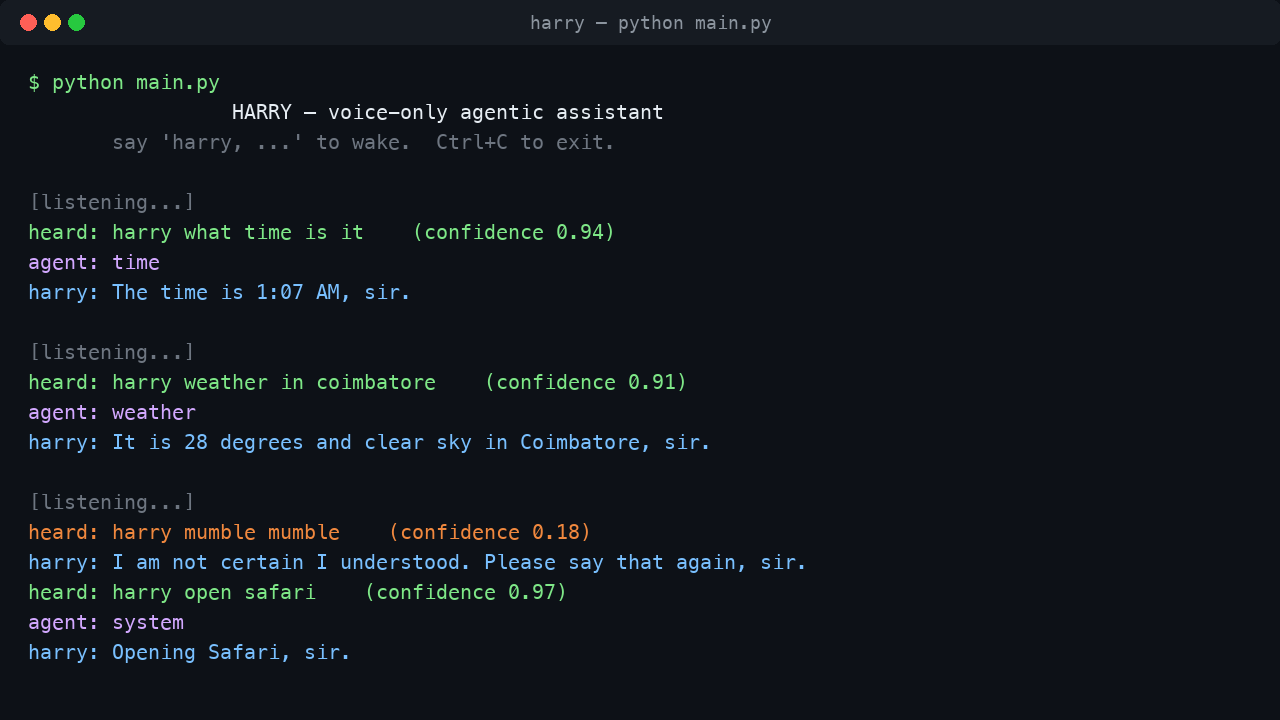
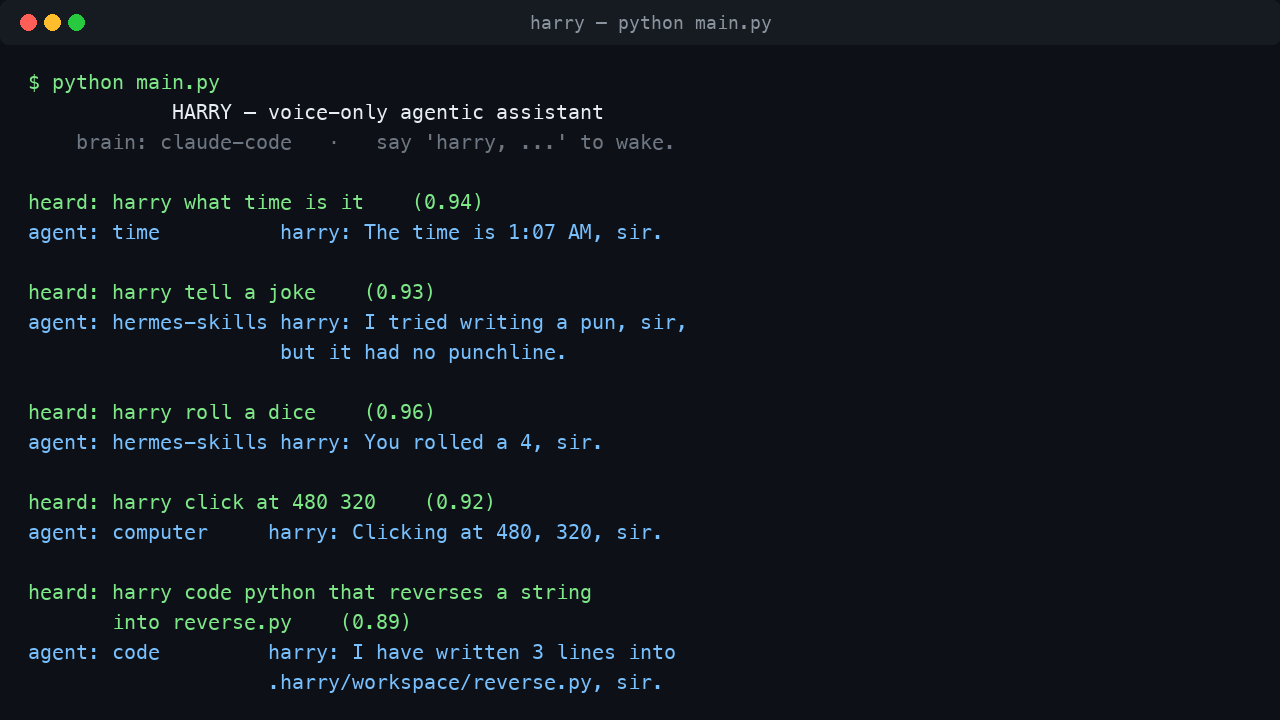
docs: refresh README and screenshots for pluggable brain + 98 skills

diff --git a/docs/generate_screenshots.py b/docs/generate_screenshots.py
@@ -72,25 +72,29 @@ def make_architecture() -> None:
     box(60, 380, 240, 90, "Wake & Clarify", "wake word + re-ask loop", "#22d3ee")
 
     box(420, 260, 320, 110, "Orchestrator", "Hermes-style router", "#f59e0b")
-    box(420, 410, 320, 90, "Brain  (Claude)", "anthropic SDK + prompt cache", "#a855f7")
+    box(420, 410, 320, 90, "Brain  (pluggable)", "Claude Pro · OpenRouter · OpenAI-compat", "#a855f7")
 
-    box(820, 140, 220, 80, "Time Agent", "clock / date / day", "#34d399")
-    box(820, 240, 220, 80, "Weather Agent", "OpenWeather API", "#34d399")
-    box(820, 340, 220, 80, "System Agent", "open mac apps (safe-list)", "#34d399")
-    box(820, 440, 220, 80, "Conversation", "free-form via Brain", "#34d399")
+    box(820, 90, 220, 70, "Time Agent", "clock / date / day", "#34d399")
+    box(820, 170, 220, 70, "Weather Agent", "OpenWeather API", "#34d399")
+    box(820, 250, 220, 70, "System Agent", "open mac apps", "#34d399")
+    box(820, 330, 220, 70, "Computer Agent", "click / type / scroll (CUA)", "#34d399")
+    box(820, 410, 220, 70, "Code Agent", "writes code to sandbox", "#34d399")
+    box(820, 490, 220, 70, "Hermes Skills × 98", "unique-keyword catalogue", "#34d399")
 
     box(420, 560, 320, 100, "Speaker", "TTS  →  audible reply", "#f472b6")
 
     arrow(180, 230, 180, 260)
     arrow(180, 350, 180, 380)
     arrow(300, 425, 420, 315)
-    arrow(740, 315, 820, 180)
-    arrow(740, 315, 820, 280)
-    arrow(740, 315, 820, 380)
-    arrow(740, 315, 820, 480)
+    arrow(740, 315, 820, 125)
+    arrow(740, 315, 820, 205)
+    arrow(740, 315, 820, 285)
+    arrow(740, 315, 820, 365)
+    arrow(740, 315, 820, 445)
+    arrow(740, 315, 820, 525)
     arrow(580, 370, 580, 410)
     arrow(580, 500, 580, 560)
-    arrow(820, 480, 740, 605, color="#64748b")
+    arrow(820, 525, 740, 605, color="#64748b")
 
     d.text((40, 680), "user voice  →  listener  →  orchestrator  →  agent  →  speaker  →  user",
            fill="#64748b", font=_font(16))
@@ -112,25 +116,29 @@ def make_terminal_demo() -> None:
 
     lines = [
         ("$ python main.py", "#7ee787"),
-        ("                 HARRY — voice-only agentic assistant", "#e6edf3"),
-        ("       say 'harry, ...' to wake.  Ctrl+C to exit.", "#6e7681"),
+        ("            HARRY — voice-only agentic assistant", "#e6edf3"),
+        ("    brain: claude-code   ·   say 'harry, ...' to wake.", "#6e7681"),
         ("", "#e6edf3"),
-        ("[listening...]", "#6e7681"),
-        ("heard: harry what time is it    (confidence 0.94)", "#7ee787"),
-        ("agent: time", "#d2a8ff"),
-        ("harry: The time is 1:07 AM, sir.", "#79c0ff"),
+        ("heard: harry what time is it    (0.94)", "#7ee787"),
+        ("agent: time          harry: The time is 1:07 AM, sir.", "#79c0ff"),
         ("", "#e6edf3"),
-        ("[listening...]", "#6e7681"),
-        ("heard: harry weather in coimbatore    (confidence 0.91)", "#7ee787"),
-        ("agent: weather", "#d2a8ff"),
-        ("harry: It is 28 degrees and clear sky in Coimbatore, sir.", "#79c0ff"),
+        ("heard: harry tell a joke    (0.93)", "#7ee787"),
+        ("agent: hermes-skills harry: I tried writing a pun, sir,", "#79c0ff"),
+        ("                     but it had no punchline.", "#79c0ff"),
         ("", "#e6edf3"),
-        ("[listening...]", "#6e7681"),
-        ("heard: harry mumble mumble    (confidence 0.18)", "#f0883e"),
-        ("harry: I am not certain I understood. Please say that again, sir.", "#79c0ff"),
-        ("heard: harry open safari    (confidence 0.97)", "#7ee787"),
-        ("agent: system", "#d2a8ff"),
-        ("harry: Opening Safari, sir.", "#79c0ff"),
+        ("heard: harry roll a dice    (0.96)", "#7ee787"),
+        ("agent: hermes-skills harry: You rolled a 4, sir.", "#79c0ff"),
+        ("", "#e6edf3"),
+        ("heard: harry click at 480 320    (0.92)", "#7ee787"),
+        ("agent: computer     harry: Clicking at 480, 320, sir.", "#79c0ff"),
+        ("", "#e6edf3"),
+        ("heard: harry code python that reverses a string", "#7ee787"),
+        ("       into reverse.py    (0.89)", "#7ee787"),
+        ("agent: code         harry: I have written 3 lines into", "#79c0ff"),
+        ("                    .harry/workspace/reverse.py, sir.", "#79c0ff"),
+        ("", "#e6edf3"),
+        ("heard: harry mumble mumble    (0.18)", "#f0883e"),
+        ("harry: I am not certain I understood. Please say that again.", "#79c0ff"),
     ]
 
     y = 70

diff --git a/README.md b/README.md
@@ -4,26 +4,27 @@
 
 # Harry
 
-**A voice-only agentic AI assistant — JARVIS / FRIDAY-style, built on a Hermes-style orchestrator.**
+**Voice-only agentic AI — JARVIS / FRIDAY-style — with a Hermes-style orchestrator, 98-skill catalogue, computer-use agent, and a pluggable LLM brain.**
 
 [![Python](https://img.shields.io/badge/python-3.10%2B-blue.svg)](https://www.python.org/)
 [![License: MIT](https://img.shields.io/badge/license-MIT-green.svg)](LICENSE)
-[![Claude](https://img.shields.io/badge/brain-Claude%20Sonnet%204.6-7c3aed.svg)](https://www.anthropic.com/claude)
+[![Brain: Claude Pro · OpenRouter · OpenAI-compat](https://img.shields.io/badge/brain-pluggable-7c3aed.svg)](#brain-backends)
+[![98 skills](https://img.shields.io/badge/skills-98%20unique%20triggers-22d3ee.svg)](#the-98-skill-catalogue)
 [![Voice only](https://img.shields.io/badge/interface-voice%20only-22d3ee.svg)](#)
 
 </div>
 
 ---
 
-Harry is an experiment in building a Tony-Stark-style personal AI. **You only speak to it. It only speaks back.** No typing, no chat window, no buttons. If Harry mishears you, it asks again — politely — until it's confident enough to act.
+Harry is a Tony-Stark-style personal AI. **You only speak to it. It only speaks back.** No typing, no chat window, no buttons. If Harry mishears you, it asks again — politely — until it's confident enough to act.
 
-Under the hood, a **Hermes-style orchestrator** routes each spoken utterance to a specialist sub-agent (time, weather, system control, free-form conversation). Claude Sonnet 4.6 is the reasoning brain behind the free-form agent.
+Under the hood, a **Hermes-style orchestrator** routes each utterance to the best specialist agent: a clock, weather, mac system control, computer-use (cursor / type / scroll), a code-writing agent that drops files in your workspace, a 98-skill catalogue with strictly non-overlapping keyword triggers, and finally a free-form conversation agent that runs through whichever LLM brain you pick.
 
 ## Demo
 
 ![Terminal demo](docs/screenshots/demo.png)
 
-> *(Microphone input and TTS output happen out-of-band — the terminal is just a debug trace of what Harry heard, which agent answered, and what it said back.)*
+> *(Microphone input and TTS output happen out-of-band — the terminal is just the trace of what Harry heard, which agent answered, and what it said back.)*
 
 ## Architecture
 
@@ -36,33 +37,90 @@ flowchart LR
     Wake -- no --> Reask[Re-ask politely]
     Reask --> Listener
     Wake -- yes --> Orch[Orchestrator<br/>Hermes-style router]
-    Orch --> Time[⏰ Time Agent]
-    Orch --> Weather[🌦 Weather Agent]
-    Orch --> System[🖥 System Agent]
-    Orch --> Conv[💬 Conversation Agent]
-    Conv --> Brain[🧠 Claude Brain]
-    Time & Weather & System & Conv --> Speaker[🔊 TTS Speaker]
+    Orch --> Time[⏰ Time]
+    Orch --> Weather[🌦 Weather]
+    Orch --> System[🖥 System]
+    Orch --> Computer[🖱 Computer Use]
+    Orch --> Code[👨💻 Code Writer]
+    Orch --> Skills[🧰 Hermes Skills × 98]
+    Orch --> Conv[💬 Conversation]
+    Skills --> Brain
+    Code --> Brain
+    Conv --> Brain[🧠 Brain<br/>Claude Pro · OpenRouter · OpenAI-compat]
+    Time & Weather & System & Computer & Code & Skills & Conv --> Speaker[🔊 TTS]
     Speaker --> User[👤 User]
 ```
 
-## Why Hermes-style?
+## Brain backends
 
-The orchestrator pattern (popularised by NousResearch's *Hermes* models for tool use) keeps each capability isolated in its own agent with explicit triggers, instead of bundling everything into a single mega-prompt. The benefits:
+Harry doesn't lock you into one provider. Pick a backend by setting **`HARRY_BRAIN`** in your `.env`:
 
-- **Cheap routing** — keyword/heuristic match handles 80% of intents without an LLM round-trip.
-- **Auditable behaviour** — every reply is tagged with the agent that produced it.
-- **Pluggable** — adding a new skill is just a new `Agent` subclass and one line in `main.py`.
-- **Graceful fallback** — anything no specialist claims falls through to the conversational Claude brain.
+| Backend         | What it does                                                            | What it needs                                              |
+| --------------- | ----------------------------------------------------------------------- | ---------------------------------------------------------- |
+| `claude-code`   | Shells out to the `claude` CLI in non-interactive mode (`claude -p`). Uses your **Claude Pro / Max** plan — browser-authenticated, **no API key required**. | `claude` on PATH and `claude /login` once.                 |
+| `openrouter`    | One key, hundreds of models. Default model: **DeepSeek V3** (`deepseek/deepseek-chat-v3-0324`). | `OPENROUTER_API_KEY`, optionally `OPENROUTER_MODEL`.       |
+| `openai-compat` | Any OpenAI-compatible endpoint — **opencode**, Ollama, vLLM, DeepSeek direct, Groq, Together, LM Studio. | `OPENCODE_API_KEY` (if needed), `OPENCODE_BASE_URL`, `OPENCODE_MODEL`. |
+| `off`           | Disable the LLM entirely; only deterministic skills will work.          | nothing.                                                   |
 
-## Features
+The brain is invoked by `ConversationAgent`, `CodeAgent`, and any of the 98 skills marked `handler="llm"`. Everything else (calculator, dice, screenshot, battery, etc.) runs without a model.
 
-- 🎙 **Voice-only I/O** — `SpeechRecognition` for STT, `pyttsx3` for offline TTS
-- 🪄 **Wake word** — Harry stays quiet until it hears its name (configurable)
-- 🤔 **Confidence-aware** — if STT confidence is below threshold, Harry asks you to repeat instead of guessing
-- 🧭 **Hermes orchestrator** — keyword-routed specialist agents with an LLM fallback
-- 🧠 **Claude brain with prompt caching** — persona is cached as `ephemeral` to keep cost & latency low
-- 🛡 **Safe-list for system control** — Harry will only open apps on an explicit allowlist
-- 🇬🇧 **British-butler persona** — concise replies tuned for speech, never markdown
+## The 98-skill catalogue
+
+`harry.skills.registry` defines exactly **98 narrow skills** across 10 categories. **Every trigger phrase in the catalogue is globally unique** — there are no overlapping keywords between skills. The test suite (`tests/test_skills.py`) enforces this as a build invariant:
+
+```python
+def test_every_trigger_is_globally_unique():
+    triggers = [t for s in SKILLS for t in s.triggers]
+    dupes = [k for k, v in Counter(t.lower() for t in triggers).items() if v > 1]
+    assert not dupes
+```
+
+Categories:
+
+| Category        | Count | Examples                                                       |
+| --------------- | :---: | -------------------------------------------------------------- |
+| `info`          | 10    | calculator · dictionary · timezone-lookup · thesaurus          |
+| `creative`      | 10    | joke · story · poem · haiku · plot-twist · metaphor            |
+| `productivity`  | 10    | reminder · timer · pomodoro · todo · note · brainstorm         |
+| `comm`          |  8    | email-draft · text-draft · translate · paraphrase · proofread  |
+| `knowledge`     | 10    | eli5 · trivia · math-solve · physics · chemistry · biology     |
+| `code`          |  8    | code-snippet · debug · regex · git-help · algorithm            |
+| `system`        |  8    | close-app · volume · brightness · screenshot · lock-screen · battery |
+| `health`        |  8    | workout · recipe · meditation · breathing · sleep-tip · stretch |
+| `ent`           |  8    | movie · book · music · game · anime · podcast · tv · fun-fact  |
+| `math`          |  8    | percent · tip · age · distance · °C↔°F · kg↔lb · roman · binary |
+| `social`        | 10    | compliment · motivation · affirmation · apology · thank-you · coin · dice |
+| **Total**       | **98**|                                                                |
+
+**Routing**: the `HermesSkillAgent` sorts all triggers by length descending, then picks the longest one that appears in the utterance — so *"convert celsius to fahrenheit"* always beats a shorter trigger that might be a prefix of something else.
+
+## Tools beyond chat
+
+### 🖱 Computer Use agent
+```
+"harry, click at 480 320"
+"harry, type out hello world"
+"harry, press key return"
+"harry, scroll down by 5"
+"harry, move cursor to 100 200"
+```
+Uses [`cliclick`](https://github.com/BlueM/cliclick) for precision when installed (`brew install cliclick`), AppleScript otherwise. macOS only for now.
+
+### 👨💻 Code-writing agent
+```
+"harry, code python that reverses a string into reverse.py"
+"harry, code javascript that debounces a function into debounce.js"
+"harry, code bash that finds large files into find_big.sh"
+```
+Routes the request to the configured Brain, strips fences, and writes the result into `~/.harry/workspace/`. Refuses to write anything outside that sandbox.
+
+### 🎨 Personalisation
+```bash
+HARRY_USER_NAME=Rudhran            # who Harry is talking to
+HARRY_ADDRESS=sir                  # how Harry should address you
+HARRY_PERSONA_EXTRA="Reference Tamil engineering jokes when natural."
+```
+Pulled in by `harry/persona.py` and injected into every LLM call as the system prompt.
 
 ## Quick start
 
@@ -73,16 +131,18 @@ cd harry-ai
 python3 -m venv .venv && source .venv/bin/activate
 pip install -r requirements.txt
 
-cp .env.example .env          # then paste your ANTHROPIC_API_KEY
-
+cp .env.example .env          # pick HARRY_BRAIN and (if needed) paste a key
 python main.py
 ```
 
 Then say:
 
 > *"Harry, what time is it?"*
-> *"Harry, weather in Coimbatore."*
-> *"Harry, open Safari."*
+> *"Harry, tell a joke."*
+> *"Harry, calculate 47 times 92."*
+> *"Harry, roll a dice."*
+> *"Harry, take a screenshot."*
+> *"Harry, code python that prints fibonacci into fib.py."*
 > *"Harry, explain how isolation forests detect anomalies."*
 
 ## Project layout
@@ -92,18 +152,30 @@ harry-ai/
 ├── main.py                       # voice loop entry point
 ├── harry/
 │   ├── config.py                 # env-loaded settings
-│   ├── brain.py                  # Anthropic SDK wrapper (prompt-cached)
+│   ├── persona.py                # personalisable system prompt
+│   ├── brain/                    # pluggable LLM backends
+│   │   ├── claude_code.py        #   uses `claude` CLI → Claude Pro
+│   │   ├── openrouter.py         #   uses OpenRouter (DeepSeek, ...)
+│   │   └── openai_compat.py      #   opencode, Ollama, vLLM, ...
 │   ├── voice/
 │   │   ├── listener.py           # STT + confidence
 │   │   └── speaker.py            # TTS
-│   └── agents/
-│       ├── base.py               # Agent ABC
-│       ├── orchestrator.py       # Hermes-style router
-│       ├── time_agent.py
-│       ├── weather_agent.py
-│       ├── system_agent.py
-│       └── conversation_agent.py # Claude fallback
-├── tests/test_orchestrator.py
+│   ├── agents/
+│   │   ├── base.py               # Agent ABC
+│   │   ├── orchestrator.py       # Hermes-style router
+│   │   ├── time_agent.py
+│   │   ├── weather_agent.py
+│   │   ├── system_agent.py
+│   │   ├── computer_agent.py     # CUA — click / type / scroll
+│   │   ├── code_agent.py         # writes files to ~/.harry/workspace
+│   │   └── conversation_agent.py # free-form fallback
+│   └── skills/
+│       ├── registry.py           # 98 Skill definitions
+│       ├── handlers.py           # deterministic handlers (no LLM)
+│       └── agent.py              # HermesSkillAgent — longest-match router
+├── tests/
+│   ├── test_orchestrator.py
+│   └── test_skills.py            # catalogue invariants (unique triggers etc.)
 ├── docs/
 │   ├── generate_screenshots.py
 │   └── screenshots/{banner,architecture,demo}.png
@@ -112,17 +184,24 @@ harry-ai/
 └── LICENSE
 ```
 
-## Configuration
+## Configuration reference
 
-| Env var                | Default                 | Notes                                       |
-| ---------------------- | ----------------------- | ------------------------------------------- |
-| `ANTHROPIC_API_KEY`    | *(required)*            | from [console.anthropic.com](https://console.anthropic.com) |
-| `HARRY_MODEL`          | `claude-sonnet-4-6`     | any Anthropic chat model                    |
-| `HARRY_WAKE_WORD`      | `harry`                 | set to empty to disable wake-word gating    |
-| `HARRY_STT_ENERGY`     | `300`                   | mic energy threshold for VAD                |
-| `HARRY_STT_PAUSE`      | `0.8`                   | seconds of silence that ends an utterance   |
-| `HARRY_MAX_CLARIFY`    | `2`                     | how many times Harry will re-ask before giving up |
-| `OPENWEATHER_API_KEY`  | *(optional)*            | enables the weather agent                   |
+| Env var                | Default                          | Notes                                          |
+| ---------------------- | -------------------------------- | ---------------------------------------------- |
+| `HARRY_BRAIN`          | `claude-code`                    | `claude-code` · `openrouter` · `openai-compat` · `off` |
+| `OPENROUTER_API_KEY`   | *(empty)*                        | required for `openrouter`                      |
+| `OPENROUTER_MODEL`     | `deepseek/deepseek-chat-v3-0324` | any OpenRouter model id                        |
+| `OPENCODE_API_KEY`     | *(empty)*                        | optional for local endpoints                   |
+| `OPENCODE_BASE_URL`    | `http://localhost:11434/v1`      | Ollama-style default                           |
+| `OPENCODE_MODEL`       | `deepseek-chat`                  | model id at that endpoint                      |
+| `HARRY_USER_NAME`      | *(empty)*                        | your name, used in persona                     |
+| `HARRY_ADDRESS`        | `sir`                            | how Harry should address you                   |
+| `HARRY_PERSONA_EXTRA`  | *(empty)*                        | extra persona sentences                        |
+| `HARRY_WAKE_WORD`      | `harry`                          | set to empty to disable wake-word gating       |
+| `HARRY_STT_ENERGY`     | `300`                            | mic energy threshold for VAD                   |
+| `HARRY_STT_PAUSE`      | `0.8`                            | seconds of silence that ends an utterance      |
+| `HARRY_MAX_CLARIFY`    | `2`                              | how many times Harry will re-ask               |
+| `OPENWEATHER_API_KEY`  | *(optional)*                     | enables the weather agent                      |
 
 ## Running tests
 
@@ -130,20 +209,23 @@ harry-ai/
 python -m pytest -q
 ```
 
-The orchestrator routing tests don't touch the microphone, the speaker, or the network — they verify that the router picks the right specialist for representative utterances.
+The suite covers orchestrator routing **and** the 98-skill catalogue invariants — uniqueness of every trigger phrase, uniqueness of skill ids, that every handler is registered, and that every LLM-routed skill has a prompt.
 
 ## Roadmap
 
-- [ ] Swap `SpeechRecognition`'s Google backend for local `faster-whisper`
+- [ ] Swap Google STT for local `faster-whisper`
 - [ ] Persistent conversation memory (SQLite or vector store)
-- [ ] Native Claude tool-use API instead of keyword triggers (true Hermes-style function calling)
+- [ ] Native tool-use API on each Brain backend (true function calling)
 - [ ] Streaming TTS so Harry can start speaking before generation finishes
-- [ ] Cross-platform `SystemAgent` (Windows / Linux)
+- [ ] Cross-platform Computer Agent (Windows / Linux via `pyautogui`)
+- [ ] Hot-reload skill packs from `~/.harry/skills/*.py`
 
 ## Inspiration
 
-- **JARVIS** & **FRIDAY** — Tony Stark's assistants in the Iron Man / MCU films
+- **JARVIS** & **FRIDAY** — Tony Stark's assistants in the MCU
 - **NousResearch Hermes** — orchestrator + tool-use architecture
+- **Claude Code** — the `claude` CLI is what makes the Pro-plan brain backend possible
+- **opencode**, **Ollama**, **OpenRouter**, **DeepSeek** — the open ecosystem behind the pluggable brain
 - **Aegis** — my earlier ML-on-the-edge anomaly-detection project ([rudhran.netlify.app](https://rudhran.netlify.app))
 
 ## License